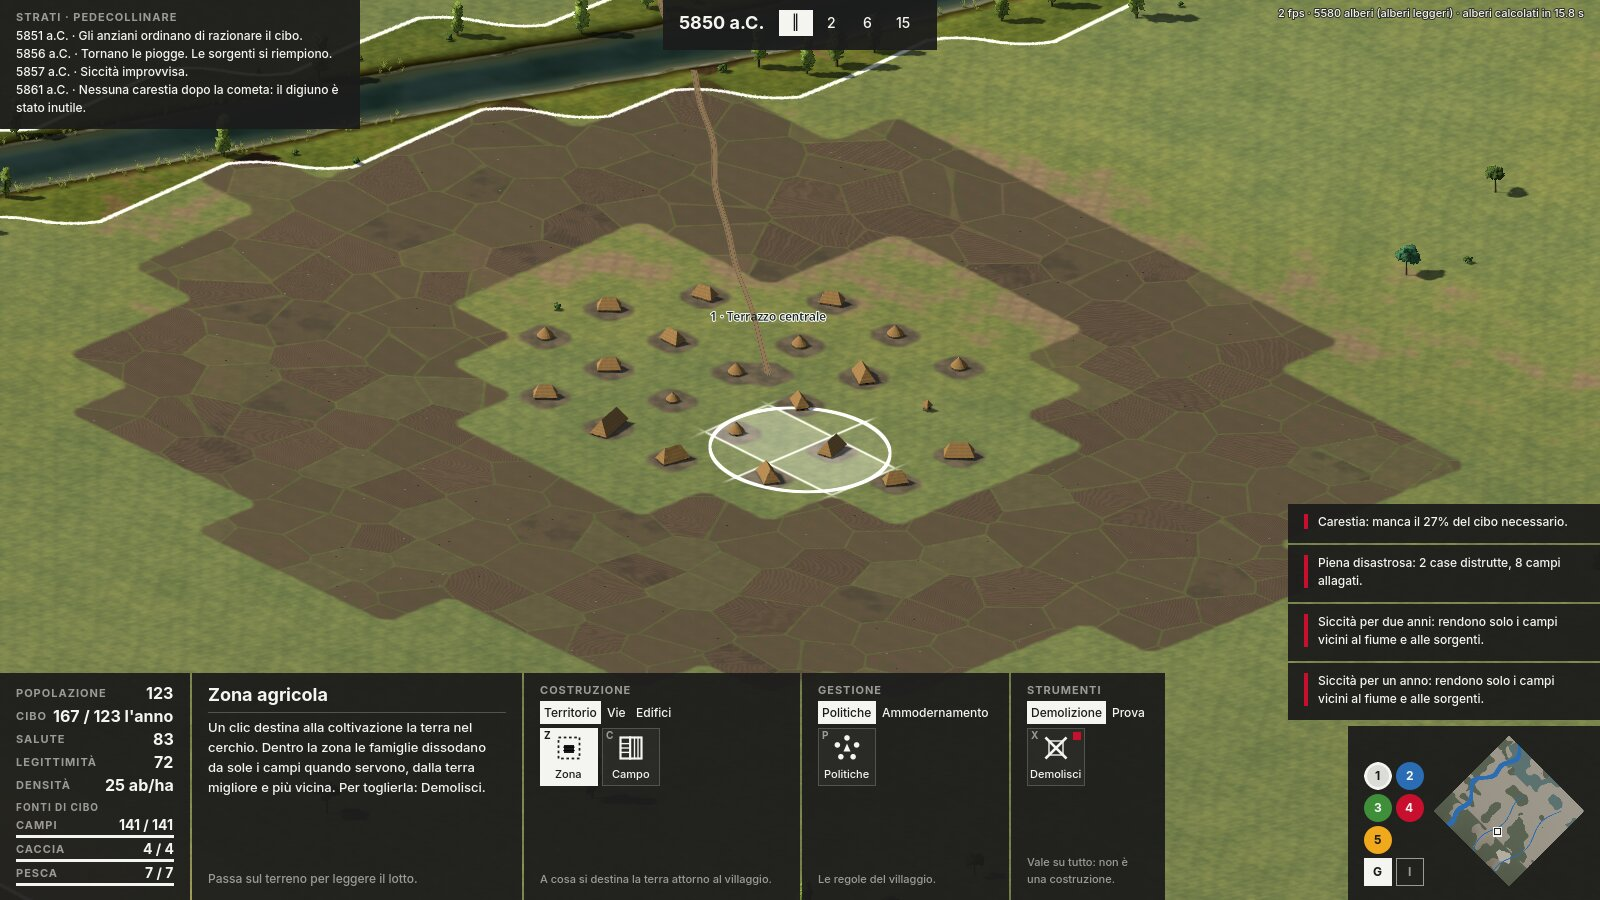
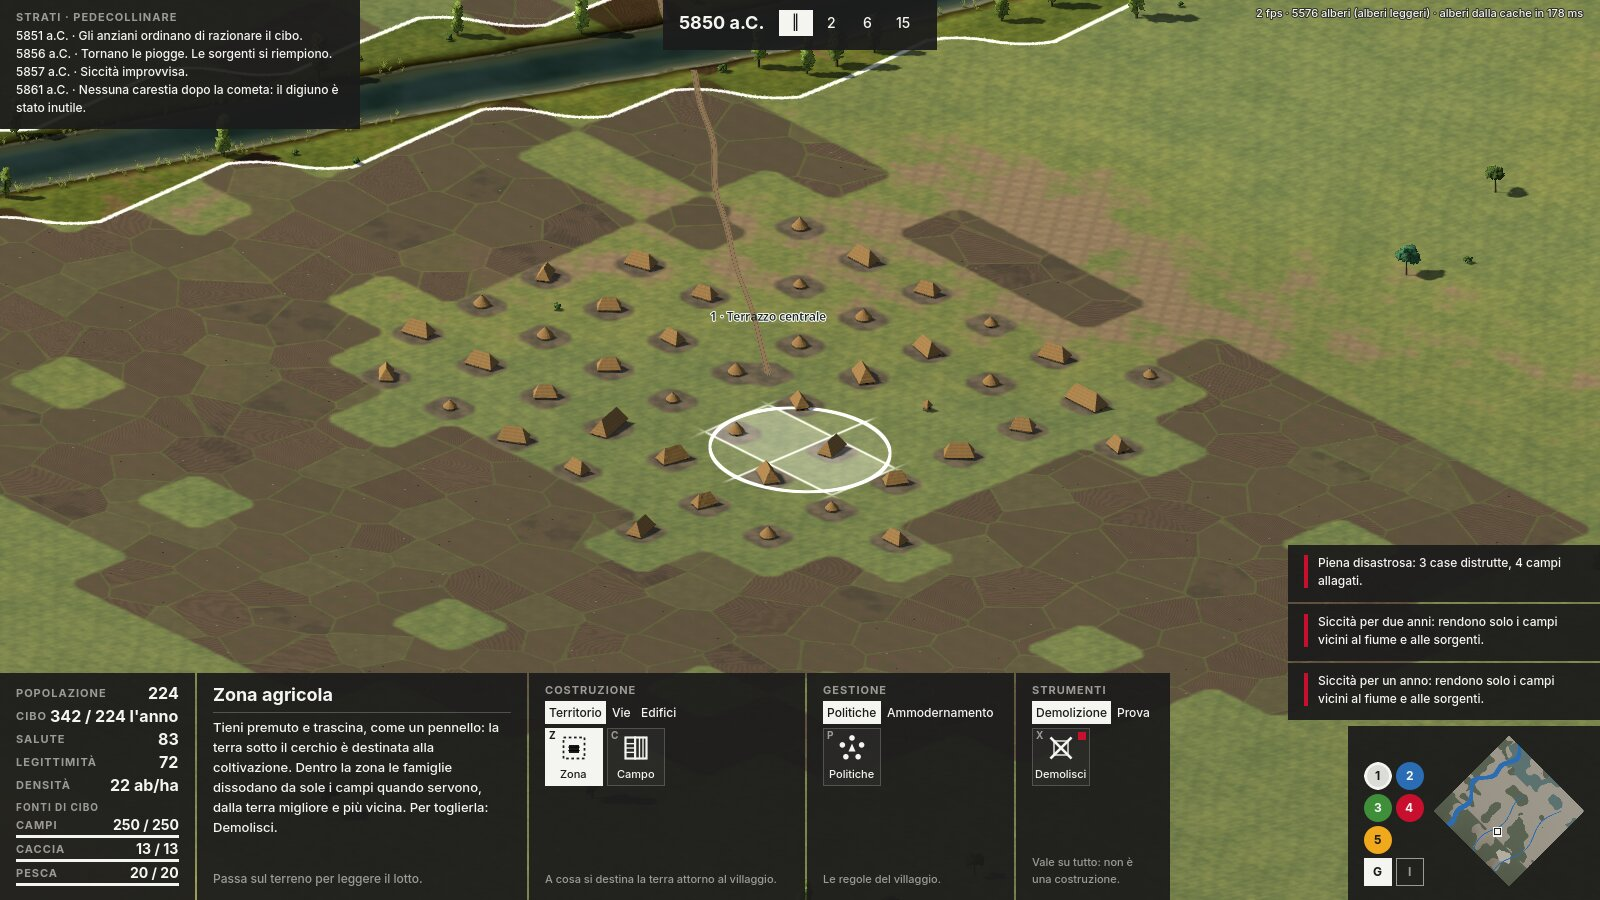
Zona agricola a pennello, meno campi, caccia e pesca più forti
- La zona agricola si stende tenendo premuto e trascinando.
- Resa dei campi 36, una casa ogni 5 abitanti, margine del 15%.
- Caccia e pesca pesano di più: quote per abitante e offerta di boschi
  e acque più alte, selvaggina che si riprende prima.
- Documenti, diario e verifiche aggiornati.

Claude-Session: https://claude.ai/code/session_01N4eDGqd1MBV5LM5fjUAzdo

diff --git a/docs/prototipo0-godot.md b/docs/prototipo0-godot.md
@@ -10,12 +10,12 @@
 - **Partita** (`gioco/script/partita.gd`, classe `Partita`): collega simulazione, disegno, uso del suolo e HUD; tempo continuo con pausa e tre velocità (2, 6, 15 anni al secondo); ogni anno della simulazione fa passare anche un anno all'uso del suolo, quindi un campo abbandonato su un ex bosco ricresce mentre si gioca.
 
 ## Resa dei campi
-Un campo da 0,16 ha su terra di fertilità 1 rende 24 unità di cibo per cella del prototipo prima di clima e tecnica: circa una persona sfamata all'anno su terra media (decisione di Fede del 24/11/2026: prima la resa era la metà e i campi erano troppi rispetto alla gente).
+Un campo da 0,16 ha su terra di fertilità 1 rende 36 unità di cibo per cella del prototipo prima di clima e tecnica: circa una persona e mezza sfamata all'anno su terra media (Fede, 24/11/2026: i campi erano troppi rispetto alla gente; la resa è passata da 12 a 24 e poi a 36). Una casa ogni 5 abitanti; le famiglie dissodano campi per il fabbisogno più il 15%, meno caccia e pesca.
 
 ## Economia mista (decisione di Fede del 24/11/2026)
 Il cibo non viene solo dai campi: caccia, raccolta e pesca pesano molto all'inizio e calano con il tempo. Storicamente i primi agricoltori continuavano a cacciare, pescare e raccogliere.
-- **Boschi** entro 1,6 km dal centro (pesati con la vicinanza; ricontati ogni 5 anni, quindi tagli e campi li riducono): caccia e raccolta fino a 0,4 di cibo per abitante. La **selvaggina** cala se si caccia troppo e ricresce lentamente.
-- **Acque** (fiume, torrenti, paludi a metà): pesca fino a 0,2 di cibo per abitante.
+- **Boschi** entro 1,6 km dal centro (pesati con la vicinanza; ricontati ogni 5 anni, quindi tagli e campi li riducono): caccia e raccolta fino a 0,6 di cibo per abitante (Fede: caccia e pesca devono pesare di più). La **selvaggina** cala se si caccia troppo e ricresce lentamente.
+- **Acque** (fiume, torrenti, paludi a metà): pesca fino a 0,35 di cibo per abitante. Quanto offrono boschi e acque dipende dal sito: dove sono ricchi, all'inizio caccia e pesca sfamano quasi tutti.
 - **Il rischio della vicinanza** (decisione di Fede: storicamente premiata ma pericolosa): l'acqua porta le piene; il bosco porta la selvaggina, che rovina i campi al suo margine (fino al 25% di raccolto in meno, meno se la caccia la tiene bassa; proposta di Claude).
 - **Politica "Fonti di cibo"** (proposta di Claude approvata da Fede): agricoltura, caccia e raccolta, pesca si accendono e si spengono con interruttori; almeno una resta accesa. Una fonte spenta non si lavora e le braccia passano alle altre (caccia spenta: +20% di campi lavorati; pesca spenta: +10%; agricoltura spenta: caccia e pesca fino al 50% in più). Con la caccia spenta la selvaggina si riprende, ma rovina di più i campi al margine del bosco. Cambiare costa −2 di consenso.
 - La valutazione del sito dice anche boschi e pesca. Nel blocco Info la sezione **Fonti di cibo** (richiesta di Fede) mostra per Campi, Caccia e Pesca quanto si prende rispetto a quanto è disponibile, con una barra della quota usata; la caccia ha la freccia della selvaggina ed è rossa quando si caccia troppo. Un clic su una fonte apre le politiche. Quando la selvaggina scende sotto il 40% arriva una notifica discreta "Si caccia troppo"; quando torna sopra il 60% la cronaca lo dice.
@@ -24,14 +24,14 @@ Il cibo non viene solo dai campi: caccia, raccolta e pesca pesano molto all'iniz
 ## Scale (dal prototipo web alla mappa vera)
 Il prototipo ragionava a celle da 160 m. Qui:
 - **campi** sulla griglia della mappa, a pixel da 40 m (0,16 ha): 16 pixel valgono una cella, quindi un pixel rende 1/16 di una cella e le braccia lavorano 16 pixel dove prima lavoravano una cella;
-- **case** sui lotti da 20 m, una ogni 6 abitanti (prima 8: case troppo poche rispetto ai campi), distanziate di almeno un lotto;
+- **case** sui lotti da 20 m, una ogni 5 abitanti (prima 8, poi 6: case troppo poche rispetto ai campi), distanziate di almeno un lotto;
 - **contado** (decisione di Fede del 24/11/2026): i campi arrivano a 400 m dal centro alla fondazione; il raggio cresce di 4 m per abitante fino a 800 m (circa 130 abitanti), il limite di cammino, e non va oltre. Con lo strumento Campi il confine si vede sulla mappa (linea tratteggiata, fuori appena velato). I sentieri non lo allargano; il granaio va entro 320 m dal centro;
 - i numeri dell'economia (cibo, braccia, consumo, salute, legittimità, eventi, presagi) sono quelli del prototipo.
 
 ## Regole (come nel prototipo, con le decisioni di Fede)
 - **Fondare:** si clicca dove fondare (dopo la fondazione il tasto sparisce e torna solo se il villaggio è abbandonato); la finestra mostra la valutazione del sito (acqua, fertilità attorno, rischio di piena, difesa, aria). Il cerchio dello strumento mostra fin dove arriveranno i campi.
 - **Abitato spontaneo** (decisione di Fede del 24/11: niente recinto per ora): le case nascono da sole vicino al centro e all'acqua, lontano dalle zone di piena finché la memoria del rischio è viva, mai su campi o sentieri. Il giocatore orienta la crescita con campi, sentieri e granaio.
-- **Zona agricola** (decisione di Fede del 24/11/2026: nel villaggio i campi seguono l'automatismo delle case; nelle epoche successive andranno gestiti uno per uno): il giocatore disegna dove la comunità può coltivare, dentro il contado; dentro la zona le famiglie dissodano da sole i campi che mancano per sfamarsi (fabbisogno meno caccia e pesca, più il 10%), al massimo 0,05 campi per abitante all'anno e non oltre le braccia, dalla terra migliore e più vicina, lasciando libero l'abitato. Quando la zona è piena arriva una notifica discreta (al massimo ogni 25 anni). La zona si vede (velo chiaro e bordo) solo mentre si usa Zona agricola o Campo; Demolisci la toglie.
+- **Zona agricola** (decisione di Fede del 24/11/2026: nel villaggio i campi seguono l'automatismo delle case; nelle epoche successive andranno gestiti uno per uno): il giocatore disegna dove la comunità può coltivare, dentro il contado, tenendo premuto e trascinando come un pennello; dentro la zona le famiglie dissodano da sole i campi che mancano per sfamarsi (fabbisogno più il 15%, meno caccia e pesca), al massimo 0,05 campi per abitante all'anno e non oltre le braccia, dalla terra migliore e più vicina, lasciando libero l'abitato. Quando la zona è piena arriva una notifica discreta (al massimo ogni 25 anni). La zona si vede (velo chiaro e bordo) solo mentre si usa Zona agricola o Campo; Demolisci la toglie.
 - **Campo:** il campo messo a mano. Un clic dissoda la terra libera dentro il cerchio; i campi che ci sono già restano (prima un clic su un campo abbandonava tutti i campi nel cerchio: Fede l'ha segnalato come un errore). Per abbandonare un campo si usa Demolisci. Mentre lo strumento è attivo, dentro il cerchio si vedono i quadrati da 40 m della simulazione.
 - **Sentiero** (decisione di Fede, modello: le strade di Cities: Skylines): un clic dove comincia, un clic dove finisce, poi si continua da lì; Esc chiude la catena. L'inizio è libero, così si possono fare reti complesse; l'opzione **Collega alla rete** (nel blocco Descrizione quando è scelto Sentiero) fa partire ogni sentiero dal punto più vicino del villaggio o dei sentieri. Inizio e fine si agganciano ai punti da 40 m. **Il sentiero velocizza l'accumulo di cibo** (decisione di Fede): i campi entro 120 m da un sentiero collegato al villaggio, o entro 200 m dal centro, rendono il 10% in più. Non attraversa il fiume né la palude.
 - **Granaio:** 30 di cibo, vicino al centro; le scorte si conservano meglio.
@@ -51,7 +51,7 @@ Il prototipo ragionava a celle da 160 m. Qui:
 - Foto: `test/foto_partita.gd`.
 
 ## Note di bilanciamento
-Con il contado che cresce con gli abitanti e l'economia mista (24/11/2026) le popolazioni finali con il giocatore automatico scendono a 450–570 abitanti (prima oltre il migliaio). L'area dei gessi resta poverissima: entro 400 m la fertilità è molto bassa e il villaggio vive di caccia e carestie; è un sito sfavorevole, ma va controllato nelle prove. Con la resa raddoppiata, una casa ogni 6 abitanti e i campi dissodati secondo il bisogno (24/11/2026, Fede: il rapporto tra campi e case sembrava un'azienda agricola) le popolazioni finali tornano a 850–1000 abitanti (gessi 410), con 120–160 case; a 123 abitanti 21 case e 111 campi (circa 18 ha), contro 15 case e 390 campi di prima. Da tarare con le prove. Il dosso nelle paludi resta piccolo (poche case trovano posto), l'area dei gessi soffre più carestie.
+Con il contado che cresce con gli abitanti e l'economia mista (24/11/2026) le popolazioni finali con il giocatore automatico scendono a 450–570 abitanti (prima oltre il migliaio). L'area dei gessi resta poverissima: entro 400 m la fertilità è molto bassa e il villaggio vive di caccia e carestie; è un sito sfavorevole, ma va controllato nelle prove. Con la resa raddoppiata, una casa ogni 6 abitanti e i campi dissodati secondo il bisogno (24/11/2026, Fede: il rapporto tra campi e case sembrava un'azienda agricola) con la resa portata a 36, una casa ogni 5 abitanti e caccia e pesca più forti, dopo 150 anni al Terrazzo centrale: 224 abitanti, 45 case, 134 campi (3 per casa; all'inizio della giornata erano più di 25). Le popolazioni finali salgono a 1000–1400 (gessi 600): da tarare con le prove. Il dosso nelle paludi resta piccolo (poche case trovano posto), l'area dei gessi soffre più carestie.
 
 ## Da fare
 - Prove di Fede e taratura.

diff --git a/docs/diario.md b/docs/diario.md
@@ -27,6 +27,7 @@ Voci più recenti in cima.
 - **Carattere Inter** nell'HUD (decisione di Fede: carattere con licenza SIL Open Font License, rispettandone le regole): file e licenza in `gioco/asset/caratteri/inter/` (con `LEGGIMI.md` su cosa chiede la licenza), nuovo `docs/licenze.md` con tutte le licenze di terze parti, regola aggiornata in `CLAUDE.md`. Verificato che il carattere di base di Godot 4.7.2 è Open Sans SemiBold, con la stessa licenza.
 - **Minimappa e mappe tematiche più piccole** (Fede: cliccabili ma non importanti, come i tasti attorno alla minimappa di Age of Empires IV): minimappa di 150 px, bollini tondi delle mappe e quadratini delle sovrapposizioni accanto, legenda sottile solo quando serve.
 - **HUD ridisposto come negli esempi di Age of Empires IV mandati da Fede** (conta la disposizione, non lo stile grafico): campo di gioco libero; in alto al centro anno e tempo, in alto a sinistra la cronaca; in basso a sinistra gli indicatori e la scheda dello strumento scelto; in basso al centro la griglia dei comandi a tasti quadrati; in basso a destra la nuova minimappa (`gioco/script/minimappa.gd`: ruotata come la vista, riquadro della camera, clic per spostarsi) con le mappe tematiche e la legenda; avvisi sopra la minimappa. Stile svizzero invariato. Dettagli in `docs/hud.md`.
+- **Zona agricola a pennello** (Fede): tenendo premuto e trascinando si stende la zona; il messaggio dice gli ettari della pennellata. **Ancora meno campi** (Fede: ancora troppo simulatore di fattoria) e **più caccia e pesca** (Fede): resa dei campi 36, una casa ogni 5 abitanti, caccia fino a 0,6 e pesca fino a 0,35 di cibo per abitante con boschi e acque che offrono di più e selvaggina che si riprende prima. Dopo 150 anni: 224 abitanti, 45 case, 134 campi (3 per casa). Immagine `docs/immagini/zona-agricola-24-11.jpg` aggiornata.
 - **Zona agricola e Campo** (decisione di Fede: automatismo come per le case in quest'epoca, doppia opzione sotto Territorio): la zona si disegna dentro il contado e le famiglie vi dissodano solo i campi che servono (fabbisogno meno caccia e pesca), un po' ogni anno, lasciando libero l'abitato; il Campo resta per metterli a mano. Nuova icona `zona_agricola`, tasto Z.
 - **Meno "azienda agricola"** (Fede, con sarcasmo: sembrava un simulatore di fattoria): resa dei campi raddoppiata, una casa ogni 6 abitanti, campi secondo il bisogno e non secondo le braccia. A 123 abitanti: 21 case e 111 campi (prima 15 case e 390 campi). Immagine `docs/immagini/zona-agricola-24-11.jpg`.
 - **Villaggio figlio tolto** (Fede: non esisteva a schermo): a 150 abitanti si sceglie tra Restare (più gente, più case) ed Emigrare (un terzo delle famiglie parte).
@@ -70,6 +71,7 @@ Voci più recenti in cima.
 - Fede: niente recinto per ora; nelle epoche in cui è coerente **l'abitato cresce spontaneo**.
 - Fede, **HUD:** disposizione come in Age of Empires, con i controlli delle mappe a destra e i comandi a sinistra. Lo stile è da definire.
 - Fede, **stile dell'HUD:** design svizzero (segnaletica della metro di Milano di Noorda, di New York di Vignelli), che dialoghi con l'urbanistica, non invasivo né protagonista ma di carattere; colori con parsimonia e solo con un significato.
+- Fede: zona agricola trascinabile come un pennello; ridurre ancora i campi rispetto alle case; caccia e pesca devono pesare di più.
 - Fede: zona agricola automatica nel villaggio (poi i campi si gestiranno), doppia opzione Zona agricola / Campo; più gente più case; al posto del villaggio figlio, Emigra.
 - Fede: approvata la politica a interruttori sulle fonti di cibo (agricoltura, caccia, pesca), con −2 di consenso e clic sull'indicatore che apre le politiche; nel blocco Info deve leggersi bene da quali fonti si attinge e quanto si usa la risorsa rispetto all'offerta.
 - Fede: limite di 800 m mantenuto (verosimile, da verificare); il sentiero velocizza l'accumulo di cibo; l'espansione territoriale segue il numero di abitanti. Accettati: abitato e contado separati, sprawl come crescita di base che il piano incanala, strumenti di espansione per epoca, tecnica come alternativa all'espansione. Economia mista: la vicinanza a boschi e fiumi dà bonus ma espone ai rischi. Collega alla rete è un'opzione del Sentiero. Dopo la fondazione il tasto Fondare non serve. Nei testi del gioco niente riferimenti ad altri giochi.
@@ -86,7 +88,7 @@ Voci più recenti in cima.
 - In coda (Fede): prove sui PC dei tempi degli alberi ("alberi calcolati in … s" al primo avvio, "alberi dalla cache in … ms" al secondo) e dei fotogrammi al secondo a 150, 600, 2000 e 6000 m di vista.
 - Rimandati da Fede: taratura di dettaglio e densità degli alberi; prato da vicino in 3D.
 - Claude, prossime sessioni (proposte):
-  - bilanciamento del villaggio dopo le prove di Fede: popolazioni finali di nuovo alte (850–1000); carestie ancora numerose nelle partite automatiche;
+  - bilanciamento del villaggio dopo le prove di Fede: popolazioni finali di nuovo alte (1000–1400); carestie ancora numerose nelle partite automatiche;
   - abitato e sprawl nel villaggio (case che crescono anche oltre il bordo, densità come pressione) e mappe tematiche distinte di abitato e contado;
   - politica "Caccia regolata" o simili, solo se le fonti di cibo non bastano come leva;
   - effetti del disboscamento nella simulazione (erosione e frane sui pendii, piene più rapide, meno selvaggina; legname come risorsa);

diff --git a/docs/hud.md b/docs/hud.md
@@ -42,7 +42,7 @@ Il campo di gioco resta libero: l'interfaccia sta in una fascia in basso e in du
 - **Scelte** (solo le scelte vere: presagi, primo cattivo raccolto, affollamento, stranieri se la politica è "caso per caso"): finestra al centro; il tempo si ferma finché non si sceglie. Niente finestre con il solo tasto "Continua" (tranne abbandono e fine della partita).
 - **Anteprima dei sentieri** (come in Cities: Skylines): nastro trasparente dall'inizio al puntatore, bianco se si può tracciare, rosso se no, con accanto la lunghezza o il motivo ("non collegato al villaggio" se il tratto è staccato); un quadratino segna l'inizio; mentre lo strumento è attivo i sentieri esistenti si schiariscono.
 - **Strumento sulla mappa:** un cerchio sottile bianco (rosso se l'azione è irreversibile) segue il puntatore; per Fondare mostra fin dove arriveranno i campi. 
-- **Zona agricola:** con Zona agricola o Campo la zona si vede come un velo chiaro con un bordo sottile.
+- **Zona agricola:** si stende come un pennello (tenendo premuto il tasto sinistro e trascinando); con Zona agricola o Campo la zona si vede come un velo chiaro con un bordo sottile.
 - **Contado:** con lo strumento Zona agricola o Campo una linea tratteggiata segna il confine della terra coltivabile, che cresce con gli abitanti; fuori, il terreno è appena velato. Un clic che esce dal confine dice quanti campi restano fuori e perché.
 - **Griglia magnetica** (idea di Fede, come in Cities: Skylines): mentre si pone qualcosa, attorno al puntatore compaiono i quadrati a cui lo strumento si aggancia, e si schiariscono quelli che verranno presi. Campi: celle da 40 m della simulazione, prese se il loro centro sta nel cerchio. Granaio: lotti da 20 m, l'edificio si aggancia al centro del lotto. Fondare: il cerchio si aggancia al punto della mappa più vicino (niente griglia; il cerchio mostra il contado iniziale di 400 m). Fuori da questi momenti la griglia non si vede.
 
